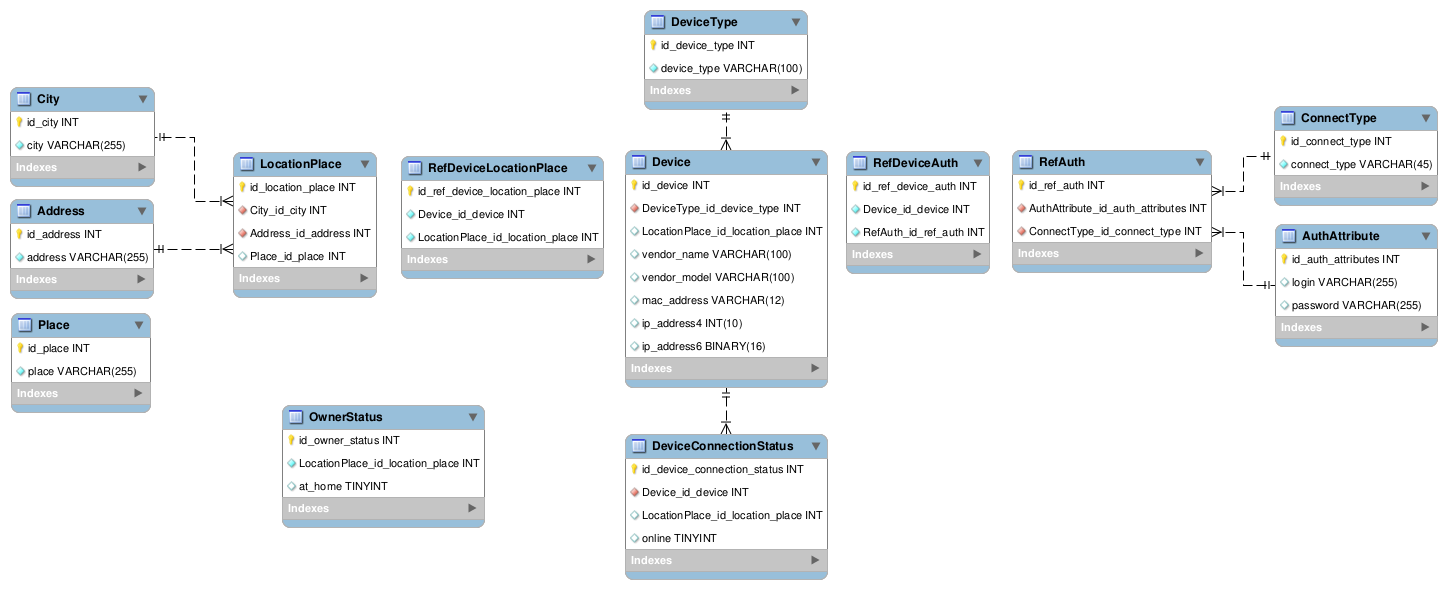
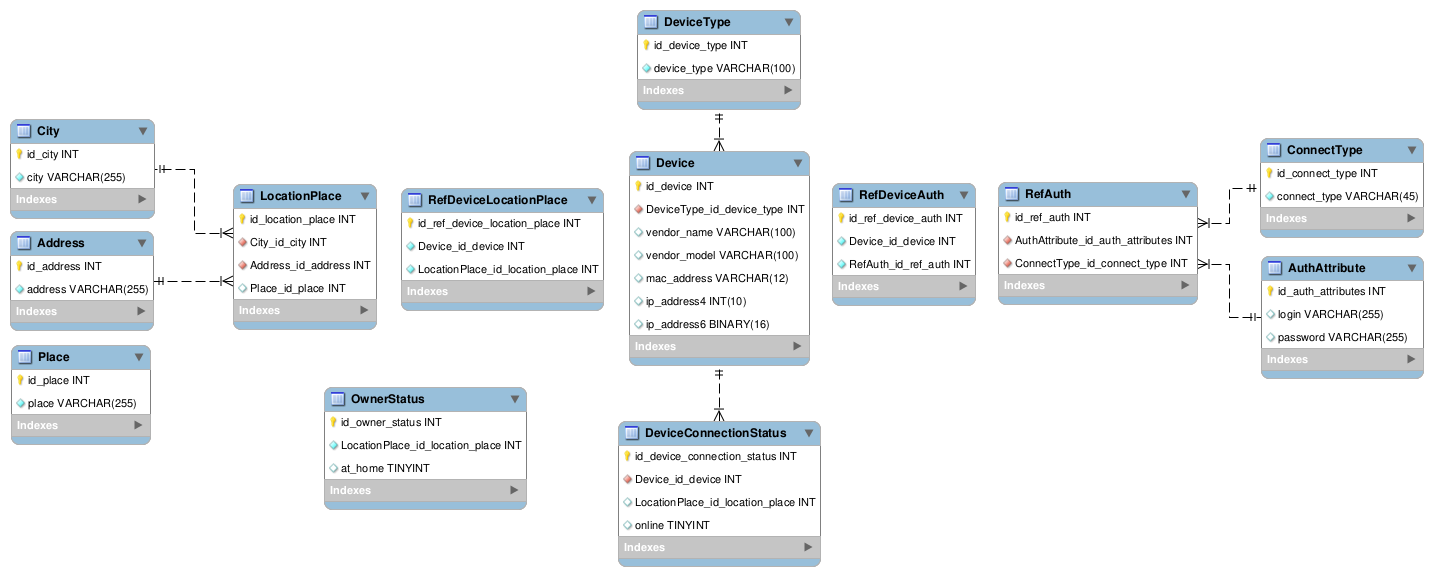
Chg: DB structure

diff --git a/db/basic_data_filling.py b/db/basic_data_filling.py
@@ -41,6 +41,38 @@ def main():
                                                                          "backyard",
                                                                          "basement"]
                         ],
+        "query_location_place": ["""INSERT INTO LocationPlace (City_id_city, Address_id_address, Place_id_place) 
+                                                                                            VALUES ({}, {}, {});""",
+                                 [[1, 1, "NULL"], [1, 1, 1], [1, 1, 2]]],
+
+        "query_connect_type": ["""INSERT INTO ConnectType (connect_type) VALUES ("{}");""", ["ssh", "telnet"]],
+        "query_auth_attribute": ["""INSERT INTO AuthAttribute (login, password) VALUES ("{}", "{}");""",
+                                 [["login", hash_str("password")]]],
+        "query_ref_auth": ["""INSERT INTO RefAuth (AuthAttribute_id_auth_attributes, ConnectType_id_connect_type) 
+                                                                                                VALUES ({}, {});""",
+                           [[1, 1]]],
+        "query_device_type": ["""INSERT INTO DeviceType (device_type) VALUES ("{}");""",
+                              ["router", "switch", "wi-fi ap", "pc", "notebook", "smartphone", "raspberrypi"]],
+        "query_device": ["""INSERT INTO Device (DeviceType_id_device_type, 
+                                                vendor_name,
+                                                vendor_model,
+                                                mac_address,
+                                                ip_address4) 
+                                                    VALUES ({}, "{}", "{}", "{}", {});""",
+                         [[1, "MikroTik", "hAP lite", "cc2de08b6f41", inet_aton("10.201.0.1")],
+                          [4, "MainPC", "MSI Z370", "309c2388b878", inet_aton("10.201.0.13")],
+                          [6, "Nokia", "6.1 Plus", "521254352521", inet_aton("10.201.0.10")]]],
+        "query_ref_device_auth": ["""INSERT INTO RefDeviceAuth (Device_id_device, RefAuth_id_ref_auth) 
+                                                                                                VALUES ({}, {});""",
+                                  [[1, 1]]],
+        "query_ref_device_location_place": ["""INSERT INTO RefDeviceLocationPlace (Device_id_device, 
+                                                                                   LocationPlace_id_location_place) 
+                                                                                                VALUES ({}, {});""",
+                                            [[1, 1], [2, 1], [3, 1], [1, 2], [2, 3]]],
+        "query_device_connection_status": ["""INSERT INTO DeviceConnectionStatus (Device_id_device, 
+                                                                                  LocationPlace_id_location_place) 
+                                                                                                VALUES ({}, {});""",
+                                           [[1, 1]]]
     }
 
     conn = create_connection(database_name)

diff --git a/db/create_db.py b/db/create_db.py
@@ -40,7 +40,6 @@ def main():
     sql_project = """
     PRAGMA foreign_keys = OFF;
     CREATE TABLE "City"(
-    --   Table must contains the list of cities name
       "id_city" INTEGER PRIMARY KEY AUTOINCREMENT NOT NULL,
       "city" VARCHAR(255) NOT NULL
     );
@@ -77,12 +76,10 @@ def main():
       "at_home" INTEGER DEFAULT 0
     );
     CREATE TABLE "Place"(
-    --   Table must contains the list of places
       "id_place" INTEGER PRIMARY KEY AUTOINCREMENT NOT NULL,
       "place" VARCHAR(255) NOT NULL
     );
     CREATE TABLE "Address"(
-    --   Table must contains the list of addresses
       "id_address" INTEGER PRIMARY KEY AUTOINCREMENT NOT NULL,
       "address" VARCHAR(255) NOT NULL
     );
@@ -112,7 +109,6 @@ def main():
     CREATE TABLE "Device"(
       "id_device" INTEGER PRIMARY KEY AUTOINCREMENT NOT NULL,
       "DeviceType_id_device_type" INTEGER NOT NULL,
-      "LocationPlace_id_location_place" INTEGER,
       "vendor_name" VARCHAR(100),
       "vendor_model" VARCHAR(100),
       "mac_address" VARCHAR(12),
